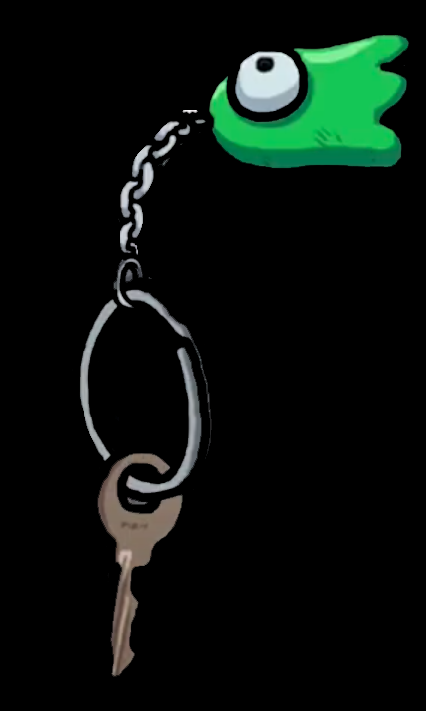
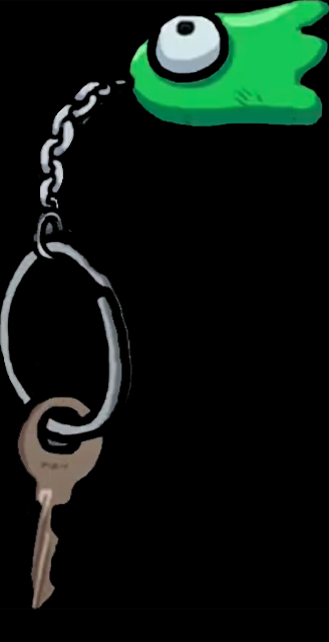
Finished Insert Keys Task

Changed region(s): [[0.0, 0.0, 1.0, 0.9657]]

diff --git a/public/tasks/Insert Keys/main.js b/public/tasks/Insert Keys/main.js
@@ -1,25 +1,54 @@
 /// <reference path="../../p5.global-mode.d.ts" />
 
+// const e = require("express");
+
 let amongUsFont;
 let locksImage;
 let keysImage;
 let keysSingleImage;
+let keyTopImage;
 
 function preload() {
     amongUsFont = loadFont("../../among us font.ttf");
     locksImage = loadImage("./images/locks.png");
     keysSingleImage = loadImage("./images/keySingle.PNG");
     keysImage = loadImage("./images/keys.png");
+    keyTopImage = loadImage("./images/keyTop.png");
 }
 let hasStarted = false;
+let hasFinished = false;
+let keyPos = [];
+let chosenKey;
 
 function setup() {
     createCanvas(windowWidth, windowHeight);
     textFont(amongUsFont);
     imageMode(CENTER);
+
+    keyPos = [
+        //First Column
+        createVector(73, -132),
+        createVector(75, -64),
+        createVector(75, 1.4),
+        createVector(75, 65.5),
+        createVector(75, 130),
+        //Second Column
+        createVector(168.3, -131.5),
+        createVector(170.5, -63.5),
+        createVector(170.5, 1.4),
+        createVector(170.5, 65.5),
+        createVector(170.5, 130)
+    ];
+
+    chosenKey = random(keyPos);
 }
 
 let scl;
+let isDraggingKey = false;
+let rotateKey = false;
+let keyRotation = 0;
+let keyInSlot = false;
+let keysScl = 0.75;
 
 function draw() {
     background(0);
@@ -30,12 +59,77 @@ function draw() {
     let locksScl = 0.7;
     image(locksImage, 75, 0, 115 * locksScl, 525 * locksScl);
     image(locksImage, 90 + 115 * locksScl, 0, 115 * locksScl, 525 * locksScl);
+    if (!isDraggingKey && !keyInSlot) {
+        image(keysImage, -120, 0, 208 * keysScl, 431 * keysScl);
+    } else {
+        image(keysSingleImage, -120, 0, 208 * keysScl, 431 * keysScl);
+    }
+
     pop();
+    push();
     translate(width / 2, height / 2);
     scale(scl);
+    noFill();
+    // keyPos.map((item) => {
+    if (keyInSlot) {
+        stroke(33, 163, 206);
+    } else {
+        stroke(230, 230, 0);
+    }
+
+    strokeWeight(3);
+    ellipse(chosenKey.x, chosenKey.y, 53);
+
+    if (keyInSlot) {
+        stroke(13, 76, 167);
+    } else {
+        stroke(208, 129, 40);
+    }
+    strokeWeight(5);
+    ellipse(chosenKey.x, chosenKey.y, 60);
+    // });
+    fill(255, 0, 0, 120);
+    noStroke();
+    // ellipse(-158, 90, 160);
+    let inputX;
+    let inputY;
+    if (touches.length > 0) {
+        inputX = touches[0].x;
+        inputY = touches[0].y;
+    } else {
+        inputX = mouseX;
+        inputY = mouseY;
+    }
+    inputX -= width / 2;
+    inputY -= height / 2;
+    inputX *= 1 / scl;
+    inputY *= 1 / scl;
+
+    if (isDraggingKey && !keyInSlot) {
+        image(keyTopImage, inputX, inputY, 85 * 0.3, 223 * 0.3);
+        if (dist(inputX, inputY, chosenKey.x, chosenKey.y) <= 25) {
+            isDraggingKey = false;
+            keyInSlot = true;
+        }
+
+    }
+    if (rotateKey) {
+        keyRotation = constrain(keyRotation + 4, 0, 90);
+    }
+    push();
+    if (keyInSlot) {
+        translate(chosenKey.x, chosenKey.y);
+        rotate(radians(keyRotation));
+        image(keyTopImage, 0, 0, 85 * 0.3, 223 * 0.3);
+    }
+    pop();
     if (!hasStarted) {
         drawStarting();
     }
+    if (hasFinished) {
+        drawFinished();
+    }
+    pop();
 }
 
 function useInput(x, y) {
@@ -43,26 +137,51 @@ function useInput(x, y) {
     y -= height / 2;
     x *= 1 / scl;
     y *= 1 / scl;
-    console.log(`${x} - ${y}`);
+    // console.log(`${x} - ${y}`);
     if (!hasStarted) {
         hasStarted = !hasStarted;
     } else {
+        if (dist(x, y, -158, 90) <= 160 / 2) {
+            isDraggingKey = true;
+        }
 
+        if (keyInSlot && dist(x, y, chosenKey.x, chosenKey.y) <= 25) {
+            rotateKey = true;
+            setTimeout(() => {
+                hasFinished = true;
+            }, 700);
+            setTimeout(() => {
+                location.reload();
+            }, 1500);
+        }
     }
+}
+
+function releaseInput() {
+    isDraggingKey = false;
 }
 
 function mousePressed() {
     useInput(mouseX, mouseY);
 }
 
+function mouseReleased() {
+    releaseInput();
+}
+
 function touchStarted() {
     useInput(touches[0].x, touches[0].y);
+}
+
+function touchEnded() {
+    if (touches.length == 0) {
+        releaseInput();
+    }
 }
 
 function windowResized() {
     resizeCanvas(windowWidth, windowHeight);
 }
-
 // function drawStarting() {
 //     push();
 //     noStroke();

diff --git a/public/tasks/startedScreen.js b/public/tasks/startedScreen.js
@@ -17,8 +17,8 @@ function drawFinished(txtWidDiv = 50) {
     wid = width * scl;
     hei = height * scl;
     push();
-    stroke(0);
-    strokeWeight(2);
+    // ellipse(width, height, 20)
+    noStroke();
     fill(0, 0, 0, 200);
     rect(-wid / 2, -hei / 2, 99999, 99999);
     textSize(txtWidDiv);
